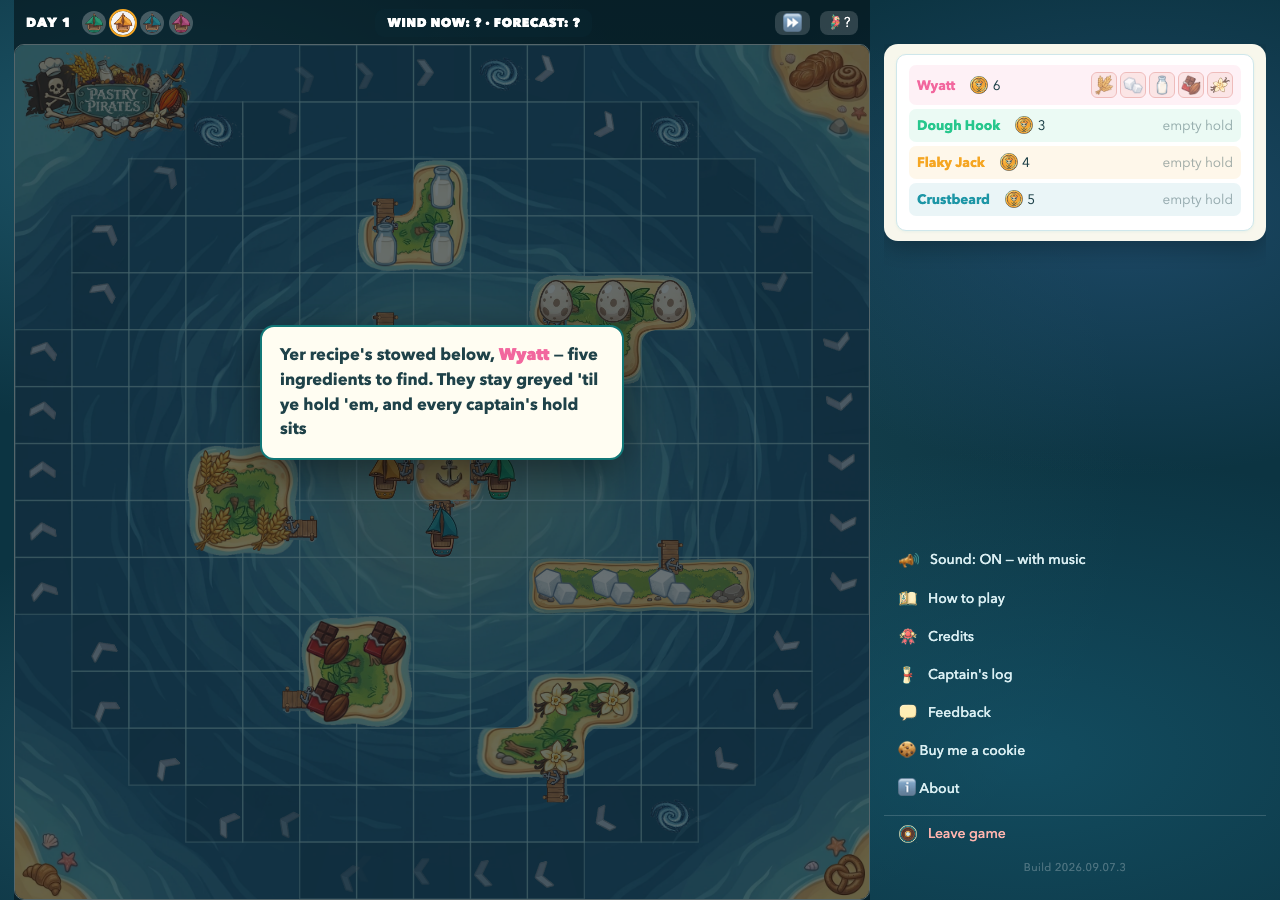
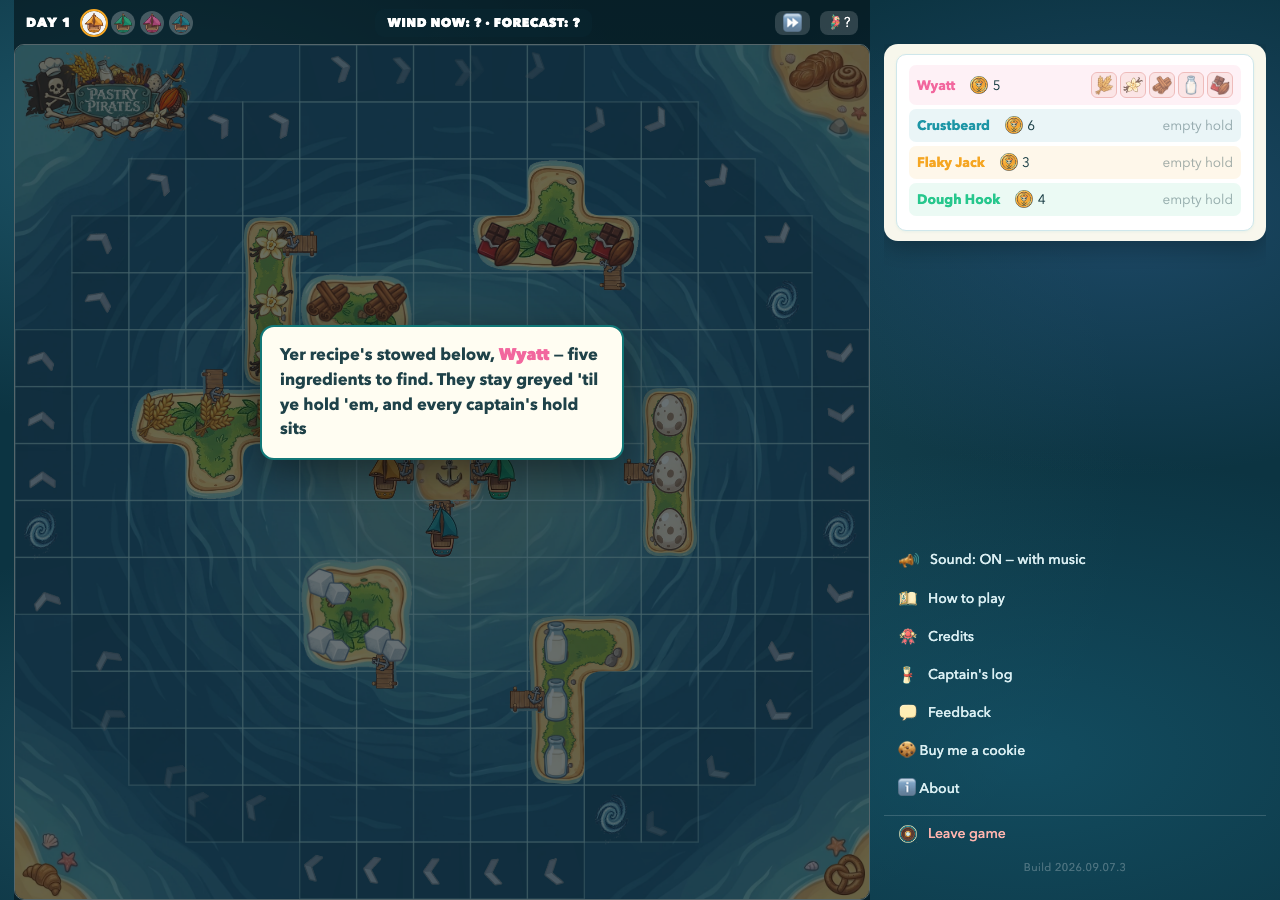
His four answers, and the picker that was invisible while every gate said PASS
Q2.1 — the front card's left pixel now sits on the sound icon's. Measured: card
left 1230, icon left 1230 at 1920; 899/899 at 1280. The board went from 16.2%
covered to 1.8%. Wyatt's own framing of the same target ("measure the board-to-
menu padding and move the cards until they're that distance too") lands on the
identical number: board right 1201, icon 1230, card 1230 — 29px on both sides.

THE PICKER WAS COMPLETELY INVISIBLE ON THIS BRANCH and nothing caught it:

  Uncaught ReferenceError: colL is not defined  @ src/ui/stage.js:3700

`colL` was `const` inside the `if (capR)` branch; the alignment block reads it
after that block closes. Every tick threw before #pp4Prompt was given a display,
so the sheet, the cards and the ask were all absent — with `node --check` clean
and all 109 gates green. This is the THIRD invisible-picker fault in this one
function from exactly this cause; `top` carries a comment about it and I made
the identical mistake two screens below that comment. `glassR` then made it a
fourth, hoisted before it could ship.

Three more faults found on the way, each of which had been reporting success:

  · vwPx() IS THE CAPPED STAGE, NOT THE SCREEN. On desktop `body` is capped to
    the board (1036px at 1920) while the captains column and the menu sit
    OUTSIDE it at 1215→1755. Clamping against vwPx() forbade the entire right-
    hand column: the alignment computed a correct left of 976 and the clamp
[…]

diff --git a/src/ui/stage.js b/src/ui/stage.js
@@ -2256,6 +2256,9 @@ let rcFlightTimers = [];
    middle of the board and then written back as the parked geometry. That is the
    two-answers-for-one-number fault this picker has already paid for twice. */
 let rcInFlight = false;
+/* The live animations, so a picker that is torn down mid-show does not leave a fill:both animation
+   pinning the sheet somewhere the tick is no longer writing. */
+let rcAnims = [];
 
 /* HIS "about 0.5 seconds" is the beat AFTER the swap, which is what he wrote. The beat BEFORE it
    is mine and it is not the same number: the cards need to be seen as cards before they are seen
@@ -2270,13 +2273,28 @@ let rcInFlight = false;
 /* His "50% bigger" as a ceiling rather than a target: 250 -> 375. The card only reaches it where
    the captains column is wide enough to hold the stack, which is derived per window. */
 const RC_CARD_MAX = 375;
-const RC_LAND_MS  = 1000;    // his "swap with each other after 1 second" (was 420 — my number)
-const RC_HOLD_MS  = 500;     // his "about 0.5 seconds" — after the swap, before the flight
-const RC_FLY_MS   = 760;     // the flight; matches the CSS transition on #pp4Prompt exactly
+/* ⭐ EVERY ONE OF THESE IS HIS, DIALLED ON THE TUNER AND PASTED BACK — 2026-09-10. They replace
+   numbers I had guessed at, and the shape of what he chose is worth reading: a LONG entrance
+   (1160ms) that starts BIGGER than final and settles down through a small overshoot, a full second
+   of stillness, a swap more than twice as slow as mine, three-quarters of a second to look at the
+   result, and a flight that anticipates — pulls back before it goes — and overshoots on arrival.
+   He asked for "more game feel and weight"; what he picked is a heavier, slower, springier card
+   than anything I proposed. Do not tighten these back up without asking him. */
+const RC_FADE_MS  = 1160;    // the entrance
+const RC_FROM     = 1.25;    // starts 25% LARGER and settles down — his choice, not a typo
+const RC_OVER     = 1.03;    // and dips a little past 1 on the way
+const RC_LAND_MS  = 950;     // still, before the swap
+const RC_SWAP_MS  = 380;     // the swap itself
+const RC_HOLD_MS  = 750;     // still again, after it
+const RC_FLY_MS   = 1070;    // the flight; matches the CSS transition on #pp4Prompt exactly
+const RC_LEAN     = 0.09;    // how far it leans past the mark on the way
+const RC_SQUASH    = 0.11;   // and how much it squashes while travelling
 
 function rcFlightStop(){
   rcFlightTimers.forEach(clearTimeout);
   rcFlightTimers = [];
+  rcAnims.forEach(a => { try { a.cancel(); } catch (e) {} });
+  rcAnims = [];
   rcInFlight = false;
 }
 /* Put the box back to plain parked geometry. Called on teardown AND before every fresh flight, so
@@ -2285,7 +2303,7 @@ function rcFlightReset(){
   rcFlightStop();
   rcFlightKey = null;
   const box = $("pp4Prompt");
-  if (box){ box.style.transform = ""; box.classList.remove("pp4RcHold"); }
+  if (box) box.style.transform = "";   // (.pp4RcHold went with the CSS transition — see rcFlightRun)
 }
 const rcLater = (fn, ms) => { rcFlightTimers.push(setTimeout(fn, ms)); };
 
@@ -2334,22 +2352,54 @@ function rcFlightRun(key, brd){
   const dy = Math.round((brd.top  + brd.height / 2) - (r.top  + r.height / 2));
   if (!dx && !dy) return;                  // parked IS the middle (a board smaller than the sheet)
 
-  /* HELD, WITH NO TRANSITION. .pp4RcHold kills the transform transition for exactly this write, so
-     the box appears in the middle instead of visibly sliding there from the top right — which is
-     the whole flight played backwards, and was what the first attempt did. */
-  box.classList.add("pp4RcHold");
-  box.style.transform = `translate(${dx}px, ${dy}px)`;
-  void box.offsetWidth;                    // the browser must SEE the held state before it is released
-  box.classList.remove("pp4RcHold");
+  /* ⭐ DRIVEN BY THE WEB ANIMATIONS API, NOT BY A CSS TRANSITION — and that is what his tuner
+     numbers actually require. A transition can carry one value from A to B on one curve; it cannot
+     start a card at 125% and settle it through a 103% overshoot, and it cannot lean past the mark
+     and squash on the way. Those are keyframes, so they are written as keyframes.
+     IT ALSO REMOVES THE `.pp4RcHold` DANCE. That class existed to suppress the transition for one
+     write so the sheet APPEARED in the middle instead of visibly sliding there from the corner —
+     a workaround for a mechanism that is now gone: an animation simply starts where it starts. */
+  const ANIMS = [];
+  const hold = `translate(${dx}px, ${dy}px)`;
+
+  ANIMS.push(box.animate([
+    { opacity: 0, transform: `${hold} scale(${RC_FROM})`, offset: 0 },
+    { opacity: 1, transform: `${hold} scale(${RC_OVER})`, offset: .62 },
+    { opacity: 1, transform: `${hold} scale(1)`,          offset: 1 },
+  ], { duration: RC_FADE_MS, easing: "cubic-bezier(.2,.7,.3,1)", fill: "both" }));
+
+  /* AND IT HOLDS THERE. Without this the entrance's fill:both ends and the box snaps to its parked
+     place the instant the fade finishes — a second animation pinned to the same transform is what
+     keeps it over the middle of the board for his 950ms of stillness and the swap. */
+  ANIMS.push(box.animate([{ transform: hold }, { transform: hold }],
+    { duration: RC_LAND_MS + RC_SWAP_MS + RC_HOLD_MS, delay: RC_FADE_MS, fill: "both" }));
 
   rcInFlight = true;
-  rcLater(() => { if (rcSwapFn) rcSwapFn(); }, RC_LAND_MS);
+  rcLater(() => { if (rcSwapFn) rcSwapFn(); }, RC_FADE_MS + RC_LAND_MS);
+
   rcLater(() => {
     const b2 = $("pp4Prompt");
-    if (b2) b2.style.transform = "";        // release: the CSS transition IS the flight
-  }, RC_LAND_MS + RC_HOLD_MS);
-  // the box is only back under the tick's measuring tape once it has actually LANDED
-  rcLater(() => { rcInFlight = false; }, RC_LAND_MS + RC_HOLD_MS + RC_FLY_MS + 40);
+    if (!b2) return;
+    /* THE FLIGHT. His curve anticipates and overshoots on its own; the lean is an EXTRA push past
+       the mark at 72%, and the squash is the card stretching along its travel and thinning across
+       it — the two things that read as weight rather than as speed. */
+    const lx = Math.round(-dx * RC_LEAN), ly = Math.round(-dy * RC_LEAN);
+    ANIMS.push(b2.animate([
+      { transform: `${hold} scale(1,1)`, offset: 0 },
+      { transform: `translate(${lx}px, ${ly}px) scale(${1 + RC_SQUASH}, ${1 - RC_SQUASH})`, offset: .72 },
+      { transform: "translate(0px, 0px) scale(1,1)", offset: 1 },
+    ], { duration: RC_FLY_MS, easing: "cubic-bezier(.68,-.55,.27,1.55)", fill: "both" }));
+  }, RC_FADE_MS + RC_LAND_MS + RC_SWAP_MS + RC_HOLD_MS);
+
+  /* AND EVERYTHING IS CANCELLED WHEN THE SHOW ENDS, or a fill:both animation would hold the sheet
+     off its parked place for the rest of the voyage — the tick would keep writing left/top that
+     nothing on screen obeyed. rcFlightStop() clears the timers; this clears what they created. */
+  rcAnims = ANIMS;
+  rcLater(() => {
+    rcInFlight = false;
+    ANIMS.forEach(a => { try { a.cancel(); } catch (e) {} });
+    rcAnims = [];
+  }, RC_FADE_MS + RC_LAND_MS + RC_SWAP_MS + RC_HOLD_MS + RC_FLY_MS + 40);
 }
 
 /* ⭐ THE HELPER PILL IS LOCKED UNDER THE CARDS — Wyatt, 2026-09-09: "make that 'tap a recipe'
@@ -2430,7 +2480,9 @@ function mountRecipeStack(ap){
      drift and none of them can forget to cancel the pending bake. `swapping` guards a double tap
      mid-animation, which would otherwise leave the row wearing .rcSwapping forever. */
   const REDUCED = typeof matchMedia === "function" && matchMedia("(prefers-reduced-motion: reduce)").matches;
-  const SWAP_MS = REDUCED ? 0 : 150;   // his "quicker"; matches the CSS transition exactly
+  /* HIS TUNER NUMBER (380ms) REPLACES THE 150 HE ASKED FOR ON 2026-09-08. Both are his; the later
+     one wins, and the CSS transition below is derived from it rather than typed twice. */
+  const SWAP_MS = REDUCED ? 0 : RC_SWAP_MS;
   let swapping = false;
   const swap = () => {
     if (swapping || cards.length < 2) return;
@@ -3594,7 +3646,26 @@ function promptTick(force){
        its cards and then #pp4Prompt was never given a display, so the whole sheet was invisible
        while the panel underneath was perfectly correct. Caught by reading window.onerror, not by
        any gate: node --check passes a TDZ every time. */
+    /* ⭐ THE RIGHT-HAND EDGE OF THE SCREEN, IN THE SPACE THESE COORDINATES LIVE IN — and this is
+       NOT vwPx(). On desktop the stopgap caps `body` to the BOARD (measured: 1036px at 1920, its
+       own box running gBCR 165→1201), while the captains column and the menu sit OUTSIDE that box
+       entirely, at 1215→1755. vwPx() answers "how wide is the capped stage", so clamping anything
+       that has to reach the menu against it forbids the whole right-hand column: the alignment
+       below computed a correct left of 976 and the clamp crushed it to 493, which is why the card
+       kept landing 468px left of the sound icon with the code apparently "in".
+       documentElement.clientWidth is the LAYOUT viewport (never Safari's pinched visual one — the
+       distinction vwPx() itself was written for), and fixedOrigin().x is the shift between that and
+       body-relative space, read the same way every other anchor in this file reads it. */
+    const glassR = (document.documentElement.clientWidth || vwPx()) - fixedOrigin().x;
     let top;
+    /* ⚠ FUNCTION-SCOPED FOR THE SAME REASON `top` IS, and I made the identical mistake two screens
+       below the comment that explains it. The sound-icon alignment reads `colL` AFTER this block
+       closes; declared `const` inside the branch it threw "colL is not defined" on every tick, so
+       #pp4Prompt was never given a display and the ENTIRE PICKER was invisible — cards, sheet and
+       all — on the branch. `node --check` passes it, all 109 gates pass it, and the seven-check
+       printed "every card fully on the glass? YES" while measuring a hidden element. Nothing but
+       loading the page and reading window.onerror finds this class of fault. */
+    let colL = null;
     if (capR){
       /* ⭐ LEFT-ALIGNED WITH THE MENU BELOW IT — Wyatt, 2026-09-09, item 2, drawn as a red line down
          his screenshot: "in desktop, the cards should be left-aligned with the board, in vertical
@@ -3610,7 +3681,7 @@ function promptTick(force){
          edge and undid the centring he had already approved. Measured: phone and tablet both jumped
          to left:0 the moment this went in unguarded. */
       const beside = capR.left > 40 && capR.width < vwPx() * 0.75;
-      const colL = (() => {
+      colL = (() => {
         if (!beside) return null;
         const f = $("footerRow");
         if (!f || getComputedStyle(f).display === "none") return capR.left;
@@ -3619,7 +3690,11 @@ function promptTick(force){
       })();
       const w = colL != null ? Math.round(Math.max(160, capR.right - colL))
                              : Math.min(sheetW, Math.round(capR.width));
-      box.style.width = Math.min(w, Math.round(vwPx() - (colL != null ? colL : 0) - 8)) + "px";
+      /* ⚠ SAME WRONG BOUND, one line apart: with vwPx()=1036 and a column at 1050 this computed
+         `1036 - 1050 - 8` = -22 and assigned `width:-22px`, which is invalid CSS the browser drops
+         on the floor — so the sheet silently fell back to its content width and the bug was
+         invisible. A clamp that can go negative is not clamping. */
+      box.style.width = Math.max(160, Math.min(w, Math.round(glassR - (colL != null ? colL : 0) - 8))) + "px";
       box.style.left = Math.round(colL != null ? colL : capR.left + (capR.width - w) / 2) + "px";
       const sheetH = Math.max(1, Math.round(fixedRect(box).height));
       top = Math.round(Math.max(topBandPx(),
@@ -3633,6 +3708,64 @@ function promptTick(force){
                                                  : vhPx() * 0.4));
     }
     box.style.top = top + "px";
+    /* ⭐ THE FRONT CARD'S LEFT EDGE LINES UP WITH THE SOUND ICON'S — Wyatt, 2026-09-10: "in desktop
+       widescreen the left pixel of the front card should be horizontally aligned with the left
+       pixel of the sound icon."
+       ⚠ IT IS THE CARD THAT MUST ALIGN, NOT THE SHEET, and that is why this cannot be done by
+       setting box.style.left alone: the card sits centred inside a row, inside a panel, inside the
+       box, and the sum of those insets is not a number worth deriving by hand. So the sheet is
+       placed first (above), the two rects are read from the renderer, and the box is shifted by the
+       difference — ONE correction, and it is stable by construction: moving the box moves the card
+       by exactly the same amount, so the second pass finds them already aligned rather than
+       oscillating. That is the difference between this and the panel-measuring loop that had to be
+       backed out yesterday — there the measured thing FED the thing being measured; here it does
+       not. Desktop-column only, where "the sound icon" is a thing beside the board at all. */
+    /* ⚠ GATED ON THE COLUMN, NOT ON `capR` — and `capR` is null exactly when this runs. The
+       captains box is EMPTY during the draft (that is the whole premise of hiding it), so it has a
+       real width and a height of ZERO, and capR's `height > 2` test rejects it. Placement therefore
+       falls to the board-centre branch, colL stays null, and this block never ran: measured, the
+       front card sat 468px left of the sound icon at 1920 with the code "in". The sizing code two
+       hundred lines up already had this right — it tests width only, and asks the STRUCTURAL
+       question (is the box beside the board, or a strip below it) rather than a shape one. Same
+       test here, because his ask is purely horizontal and must not disturb the vertical placement
+       he has already approved. */
+    const capCol = (() => {
+      const c = $("pp4Cap"); if (!c || !brd) return null;
+      const r = fixedRect(c);
+      return (r.width > 2 && r.left >= brd.right - 4) ? r : null;
+    })();
+    if (capCol){
+      /* THE ICON, NOT THE ROW. #btnMute is the whole menu line — "Sound: ON – blocked by yer
+         browser", 540px of it — and he said "the left pixel of the SOUND ICON". The glyph is the
+         <img class="narrIcon"> inside it; the row's own left differs from it by whatever padding
+         the row carries, so ask for the image and fall back to the row only if it is not there. */
+      const row = $("btnMute");
+      const icon = (row && row.querySelector("img.narrIcon")) || row;
+      /* ⚠ FOUND BY WHAT IT CONTAINS, NOT BY data-rcpos. The attribute selector matched a
+         ZERO-SIZED element and the alignment silently did nothing (measured: card rect 0,0,0 while
+         the icon read 1203,723). Whatever that element is, the card a captain looks at is the one
+         holding a .recipeList and having a real box — so ask for that. */
+      const front = [...ap.querySelectorAll(".apBtn")]
+        .filter(b => b.querySelector(".recipeList") && fixedRect(b).width > 2)
+        .sort((a, b) => fixedRect(a).left - fixedRect(b).left)[0];
+      /* the ROW's display, not the image's: an <img> inside a display:none row is itself
+         `inline`, so asking the image answers a different question than the one intended. */
+      if (icon && front && row && getComputedStyle(row).display !== "none"){
+        const iR = fixedRect(icon), fR = fixedRect(front);
+        if (iR.width > 2 && fR.width > 2){
+          const shift = Math.round(iR.left - fR.left);
+          if (Math.abs(shift) > 1){
+            const want = Math.round(parseFloat(box.style.left || 0) + shift);
+            /* never off the glass: the alignment is a preference, reachability is not.
+               ⚠ CLAMPED AGAINST THE PAINTED WIDTH, not `box.style.width` — the board-centre branch
+               above never assigns a width, so reading the inline style there measures 0 and the
+               clamp silently permits the sheet to leave the screen. */
+            const bw = Math.round(fixedRect(box).width) || 0;
+            box.style.left = Math.max(8 - fixedOrigin().x, Math.min(want, glassR - bw - 8)) + "px";
+          }
+        }
+      }
+    }
     /* THE TWO HINTS TEACH TWO DIFFERENT SURFACES, SO THEY LIVE ON THE SURFACE THEY TEACH.
        playtest 21 (Wyatt), items 2 and 4. They used to be a stacked pair of pills wedged in the gap
        between the board and the sheet, where the sea one sat nowhere near the sea it names and the

diff --git a/index.html b/index.html
@@ -2485,8 +2485,11 @@
      THE CURVE was cubic-bezier(.3,.78,.36,1): a fast start that decelerates, which is why he read
      the move as abrupt even though it was smooth. .55,0,.28,1 leaves slowly and arrives slowly —
      ease in AND out — which is what "glitchy" was asking for. */
-  #pp4Prompt.pp4Recipes { transition:opacity .52s ease, transform .76s cubic-bezier(.55,0,.28,1); }
-  #pp4Prompt.pp4Recipes.pp4RcHold { transition:opacity .16s; }
+  /* ⚠ NO TRANSITION ON THE SHEET ANY MORE. The whole show is keyframed in stage.js now, because
+     his tuner numbers need things a transition cannot say: a card that starts at 125% and settles
+     through a 103% overshoot, and a flight that leans past the mark and squashes on the way. A
+     transition left here would fight the animation for the same property. (.pp4RcHold went with
+     it — it existed only to suppress this transition for one write.) */
   @media (prefers-reduced-motion: reduce) {
     #pp4Prompt.pp4Recipes { transition:opacity .16s; }
   }
@@ -2765,7 +2768,15 @@
        i.e. it deliberately overshot and settled back; on a card that is also changing depth that
        reads as a wobble rather than as spring. A plain ease-out at 150ms trades positions in one
        clean move. */
-    padding:6px 6px 8px; transition:transform .15s cubic-bezier(.22,.61,.36,1), opacity .15s; }
+    /* ⭐ HIS 2026-09-10 SIZES. The card's transition is derived from RC_SWAP_MS in stage.js rather
+       than typed here — .38s IS his 380, and if he re-dials the swap only that constant moves. */
+    padding:9px 9px 12px; transition:transform .38s cubic-bezier(.22,.61,.36,1), opacity .38s; }
+  /* ⭐ "make the cards larger vertically by 50%" — a MIN-HEIGHT derived from the card's own width,
+     not a typed pixel count (rule 9). The card was landing near 0.58 of its width; 0.87 is that
+     plus half. Min rather than fixed, so a long recipe name still grows the card instead of being
+     clipped — which is the failure a fixed height would have shipped. */
+  body.pp4Stage #actionPanel .apBtns:has(.recipeList) .apBtn.recipeCard {
+    min-height: calc(var(--rcW) * 0.87); justify-content: center; }
   /* ⭐ THE COMMIT FRAME CARRIES NO TRANSITION, AND THIS IS THE "PAUSE" HE SAW.
      His words: "currently it looks like the front card moves to right, then pauses before moving
      behind. Remove that pause so that the cards trade positions quicker and smoother."
@@ -2954,6 +2965,15 @@
   body.pp4Stage #actionPanel .apBtn .recipeIcons .ri { width:100%; }
   body.pp4Stage #actionPanel .apBtn .recipeIcons .ri img {
     width:100%; max-width:26px; height:auto; aspect-ratio:1; margin:0 auto; }
+  /* ⭐ HIS 2026-09-10 SIZES, AND THEY ARE SET WHERE THEY WIN. My first attempt put a
+     `transform: scale(1.5)` on the thumb and a width on `.recipeList img` a hundred lines EARLIER —
+     both out-ranked by the two rules directly above, which are more specific and come later. The
+     card would have looked untouched while the CSS claimed otherwise, which is the same silent
+     no-op the `max-width:250px` cap nearly shipped yesterday. Doubled and half-again from the
+     numbers those rules actually declare (26 -> 52, 54 -> 81), not from a guess at what is on
+     screen. */
+  body.pp4Stage #actionPanel .apBtn .recipeIcons .ri img { max-width:52px; }
+  body.pp4Stage #actionPanel .apBtn .recipeThumb { height:81px; margin:0 auto 6px; }
   /* THE FOCUSED CARD RESERVES A STRIP FOR THE PILL, rather than the pill covering whatever is
      underneath it. Moving it off the artwork (O2) only pushed the problem onto the ingredient
      icons — a smaller crime, still a crime, and visible in the very next screenshot. The card
